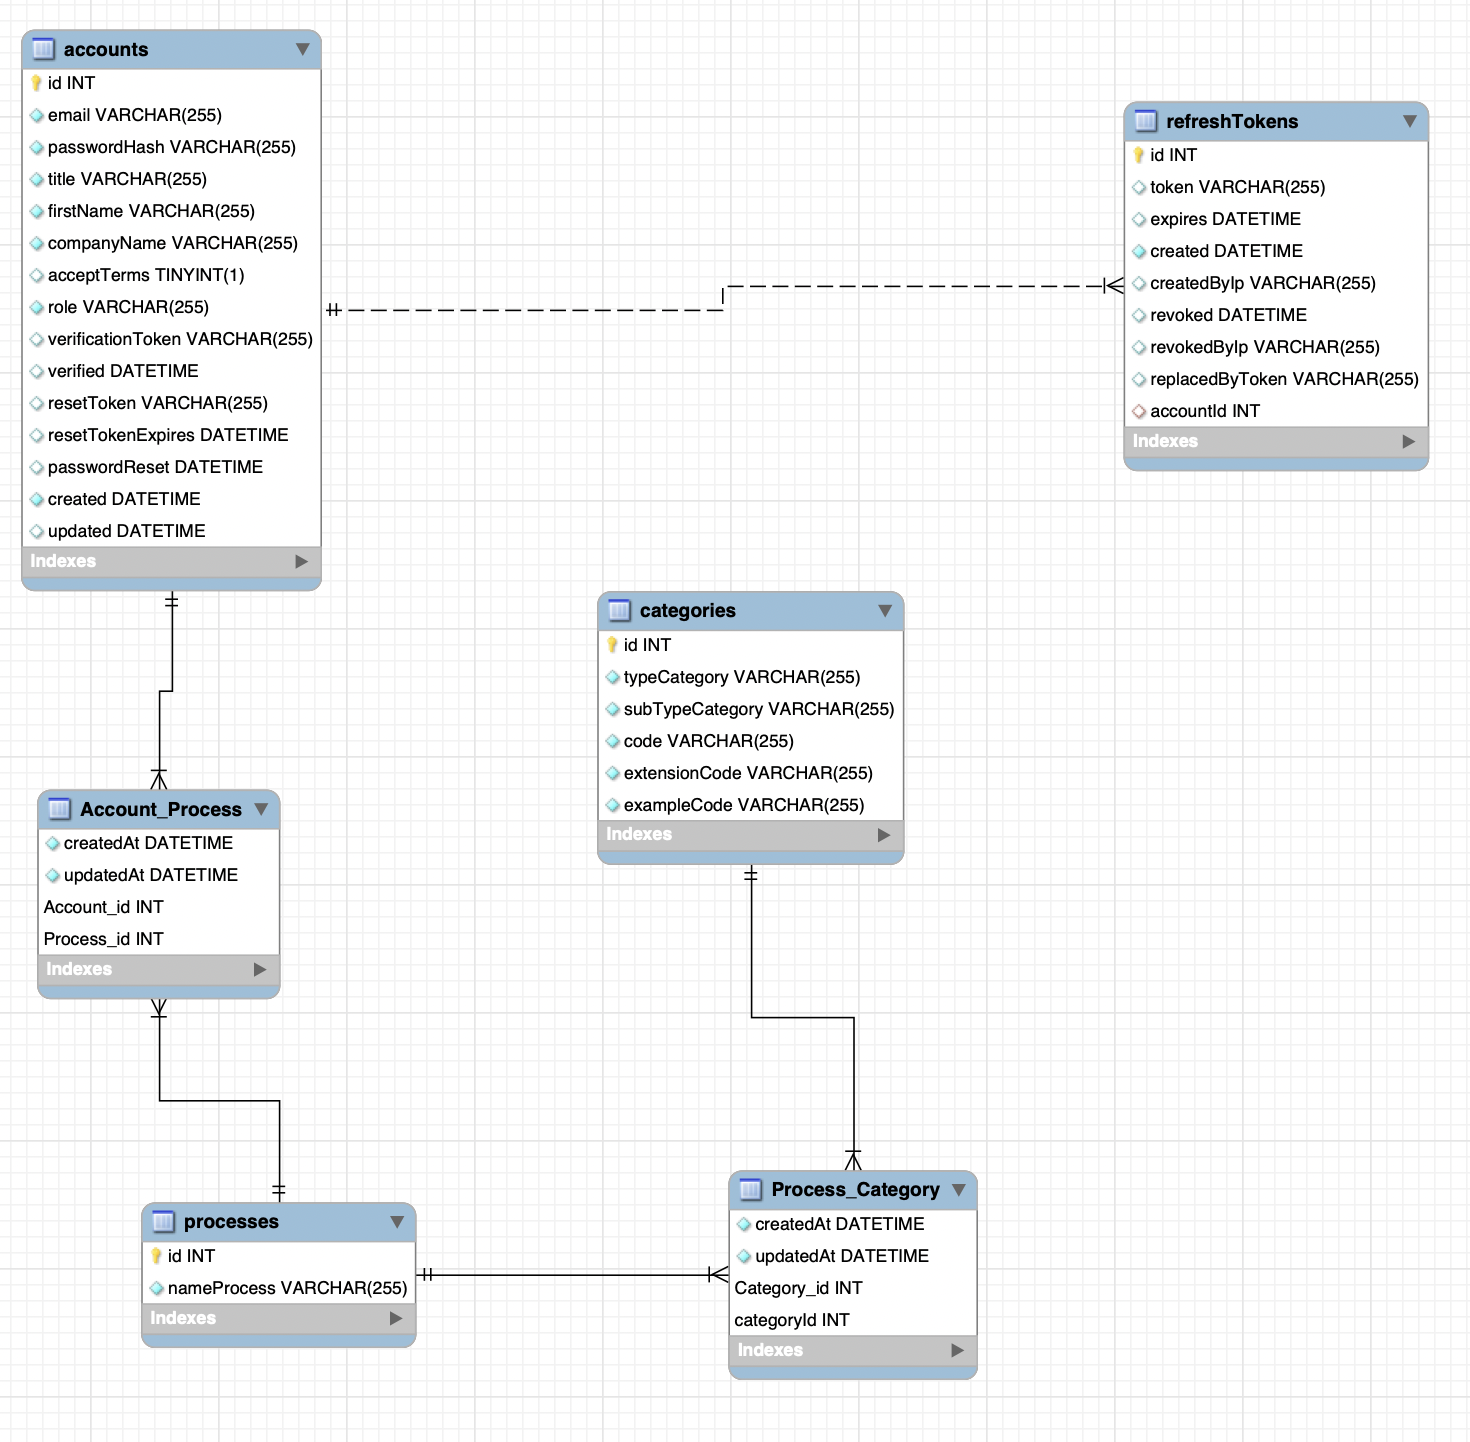
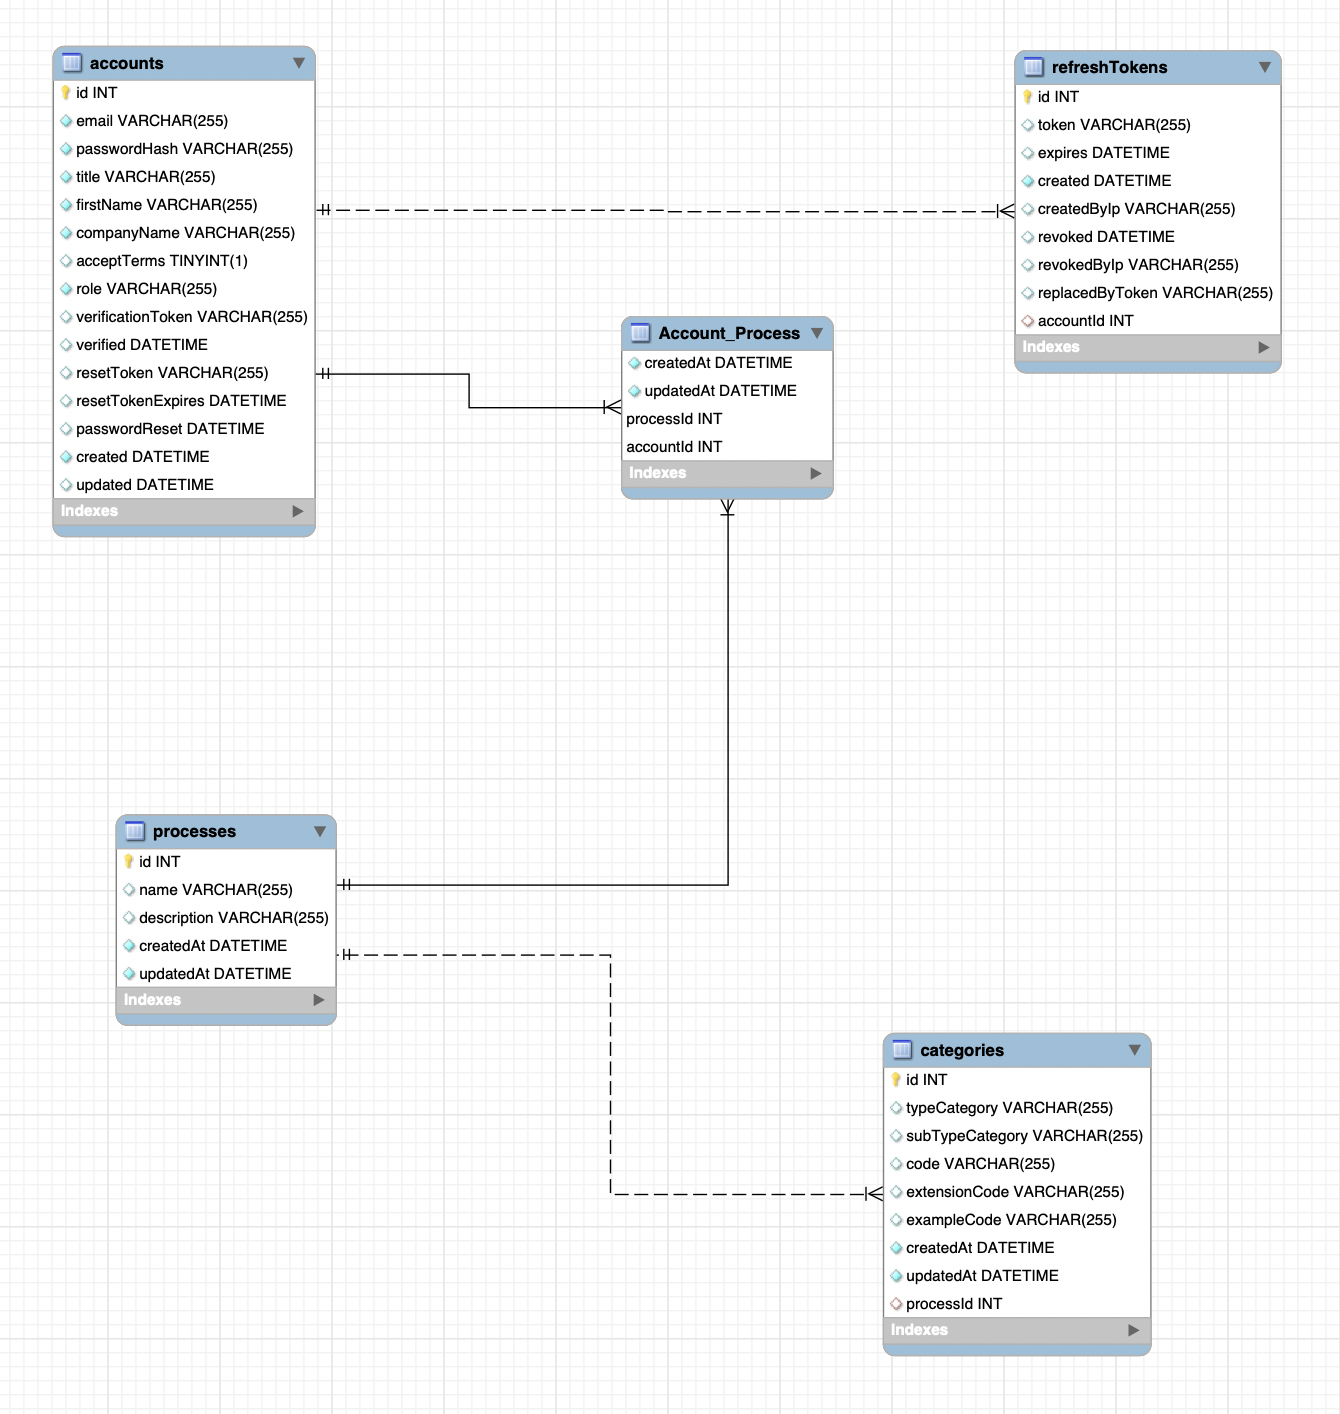
NewEER

diff --git a/v2/angular/src/app/_services/cause.service.ts b/v2/angular/src/app/_services/cause.service.ts
@@ -1,0 +1,127 @@
+import { Injectable } from '@angular/core';
+import { Router } from '@angular/router';
+import { HttpClient } from '@angular/common/http';
+import { BehaviorSubject, Observable } from 'rxjs';
+import { map, finalize } from 'rxjs/operators';
+
+import { environment } from '@environments/environment';
+import { Category } from '../_models/category';
+import { Process } from '../_models/process';
+
+const baseUrl = `${environment.apiUrl}/accounts`;
+
+@Injectable({ providedIn: 'root' })
+export class CauseService {
+    private accountSubject: BehaviorSubject<Account>;
+    public category: Observable<Category>;
+    public process: Observable<Process>;
+
+    constructor(
+        private router: Router,
+        private http: HttpClient
+    ) {
+        this.accountSubject = new BehaviorSubject<Account>(null);
+        this.account = this.accountSubject.asObservable();
+    }
+
+    public get accountValue(): Account {
+        return this.accountSubject.value;
+    }
+
+    login(email: string, password: string) {
+        return this.http.post<any>(`${baseUrl}/authenticate`, { email, password }, { withCredentials: true })
+            .pipe(map(account => {
+                this.accountSubject.next(account);
+                this.startRefreshTokenTimer();
+                return account;
+            }));
+    }
+
+    logout() {
+        this.http.post<any>(`${baseUrl}/revoke-token`, {}, { withCredentials: true }).subscribe();
+        this.stopRefreshTokenTimer();
+        this.accountSubject.next(null);
+        this.router.navigate(['/account/login']);
+    }
+
+    refreshToken() {
+        return this.http.post<any>(`${baseUrl}/refresh-token`, {}, { withCredentials: true })
+            .pipe(map((account) => {
+                this.accountSubject.next(account);
+                this.startRefreshTokenTimer();
+                return account;
+            }));
+    }
+
+    register(account: Account) {
+        return this.http.post(`${baseUrl}/register`, account);
+    }
+
+    verifyEmail(token: string) {
+        return this.http.post(`${baseUrl}/verify-email`, { token });
+    }
+    
+    forgotPassword(email: string) {
+        return this.http.post(`${baseUrl}/forgot-password`, { email });
+    }
+    
+    validateResetToken(token: string) {
+        return this.http.post(`${baseUrl}/validate-reset-token`, { token });
+    }
+    
+    resetPassword(token: string, password: string, confirmPassword: string) {
+        return this.http.post(`${baseUrl}/reset-password`, { token, password, confirmPassword });
+    }
+
+    getAll() {
+        return this.http.get<Account[]>(baseUrl);
+    }
+
+    getById(id: string) {
+        return this.http.get<Account>(`${baseUrl}/${id}`);
+    }
+    
+    create(params) {
+        return this.http.post(baseUrl, params);
+    }
+    
+    update(id, params) {
+        return this.http.put(`${baseUrl}/${id}`, params)
+            .pipe(map((account: any) => {
+                // update the current account if it was updated
+                if (account.id === this.accountValue.id) {
+                    // publish updated account to subscribers
+                    account = { ...this.accountValue, ...account };
+                    this.accountSubject.next(account);
+                }
+                return account;
+            }));
+    }
+    
+    delete(id: string) {
+        return this.http.delete(`${baseUrl}/${id}`)
+            .pipe(finalize(() => {
+                // auto logout if the logged in account was deleted
+                if (id === this.accountValue.id)
+                    this.logout();
+            }));
+    }
+
+    // helper methods
+
+    private refreshTokenTimeout;
+
+    private startRefreshTokenTimer() {
+        // parse json object from base64 encoded jwt token
+        const jwtToken = JSON.parse(atob(this.accountValue.jwtToken.split('.')[1]));
+
+        // set a timeout to refresh the token a minute before it expires
+        const expires = new Date(jwtToken.exp * 1000);
+        const timeout = expires.getTime() - Date.now() - (60 * 1000);
+        this.refreshTokenTimeout = setTimeout(() => this.refreshToken().subscribe(), timeout);
+    }
+
+    private stopRefreshTokenTimer() {
+        clearTimeout(this.refreshTokenTimeout);
+    }
+}

diff --git a/v2/angular/src/app/moderator/causes/list-cause.component.html b/v2/angular/src/app/moderator/causes/list-cause.component.html
@@ -1,12 +1,17 @@
-<h1>Accounts</h1>
-<p>All accounts from secure (admin only) api end point:</p>
-<a routerLink="add" class="btn btn-sm btn-success mb-2">Create Account</a>
+<h1>Process and Category</h1>
+<p>Add, Edit or Delete Processes/Categories:</p>
+<a routerLink="add" class="btn btn-sm btn-success mr-1">Create Process</a>
+<a routerLink="add" class="btn btn-sm btn-success mr-1">Create Category</a>
 <table class="table table-striped">
     <thead>
         <tr>
-            <th style="width:30%">Name</th>
-            <th style="width:30%">Email</th>
-            <th style="width:30%">Role</th>
+            <th style="width:30%">ID Process</th>
+            <th style="width:30%">ID Category</th>
+            <th style="width:30%">typeCategory</th>
+            <th style="width:30%">subTypeCategory</th>
+            <th style="width:30%">code</th>
+            <th style="width:30%">extensionCode</th>
+            <th style="width:30%">exampleCode</th>
             <th style="width:10%"></th>
         </tr>
     </thead>
@@ -14,6 +19,10 @@
         <tr *ngFor="let account of accounts">
             <td>{{account.title}} {{account.firstName}} {{account.companyName}}</td>
             <td>{{account.email}}</td>
+            <td>{{account.role}}</td>
+            <td>{{account.role}}</td>
+            <td>{{account.role}}</td>
+            <td>{{account.role}}</td>
             <td>{{account.role}}</td>
             <td style="white-space: nowrap">
                 <a routerLink="edit/{{account.id}}" class="btn btn-sm btn-primary mr-1">Edit</a>

diff --git a/v2/node/processes/category.model.js b/v2/node/processes/category.model.js
@@ -1,20 +1,22 @@
 const { DataTypes } = require('sequelize');
 
-module.exports = model;
-
-function model(sequelize) {
-    const attributes = {
-        typeCategory: { type: DataTypes.STRING, allowNull: false },
-        subTypeCategory:  { type: DataTypes.STRING, allowNull: false },
-        code:  { type: DataTypes.STRING, allowNull: false },
-        extensionCode:  { type: DataTypes.STRING, allowNull: false },
-        exampleCode:  { type: DataTypes.STRING, allowNull: false },
-    };
-
-    const options = {
-        // disable default timestamp fields (createdAt and updatedAt)
-        timestamps: false
-    };
-
-    return sequelize.define('category', attributes, options);
-}
+module.exports = (sequelize) => {
+    const Category = sequelize.define("category", {
+      typeCategory: {
+        type: DataTypes.STRING
+      },
+      subTypeCategory: {
+        type: DataTypes.STRING
+      },code: {
+        type: DataTypes.STRING
+      },
+      extensionCode: {
+        type: DataTypes.STRING
+      },
+      exampleCode: {
+        type: DataTypes.STRING
+      }
+    });
+  
+    return Category;
+  };

diff --git a/v2/node/_helpers/db.js b/v2/node/_helpers/db.js
@@ -25,13 +25,13 @@ async function initialize() {
     // define relationships
     db.Account.hasMany(db.RefreshToken, { onDelete: 'CASCADE' });
     db.RefreshToken.belongsTo(db.Account);
-    db.Process.belongsToMany(db.Account, {through: "Account_Process", as: "Accounts", foreignKey: "Process_id"});
-    db.Account.belongsToMany(db.Process, {through: "Account_Process", as: "Processes", foreignKey: "Account_id"});
-    db.Process.belongsToMany(db.Category, {through: "Process_Category", as: "Context", foreignKey: "Process_id"});
+    db.Process.belongsToMany(db.Account, {through: "Account_Process", as: "accounts"});
+    db.Process.hasMany(db.Category, { as: "categories" });
+    db.Category.belongsTo(db.Process, {
+        foreignKey: "processId",
+        as: "process",
+      });
 
-    
-
-       
     // sync all models with database
     await sequelize.sync();
 }

diff --git a/v2/node/processes/process.model.js b/v2/node/processes/process.model.js
@@ -1,16 +1,14 @@
 const { DataTypes } = require('sequelize');
 
-module.exports = model;
-
-function model(sequelize) {
-    const attributes = {
-        nameProcess: { type: DataTypes.STRING, allowNull: false },
-    };
-
-    const options = {
-        // disable default timestamp fields (createdAt and updatedAt)
-        timestamps: false
-    };
-
-    return sequelize.define('process', attributes, options);
-}
+module.exports = (sequelize) => {
+    const Process = sequelize.define("process", {
+      name: {
+        type: DataTypes.STRING
+      },
+      description: {
+        type: DataTypes.STRING
+      }
+    });
+  
+    return Process;
+  };

diff --git a/v2/angular/src/app/_models/category.ts b/v2/angular/src/app/_models/category.ts
@@ -1,0 +1,8 @@
+export class Category {
+    id: string;
+    typeCategory: string;
+    subTypeCategory: string;
+    code: string;
+    extensionCode: string;
+    exampleCode: string;
+}

diff --git a/v2/angular/src/app/_models/index.ts b/v2/angular/src/app/_models/index.ts
@@ -1,3 +1,5 @@
 export * from './account';
 export * from './alert';
 export * from './role';
+export * from './process';
+export * from './category';

diff --git a/v2/angular/src/app/_models/process.ts b/v2/angular/src/app/_models/process.ts
@@ -1,0 +1,4 @@
+export class Process {
+    id: string;
+    nameProcess: string;
+}
